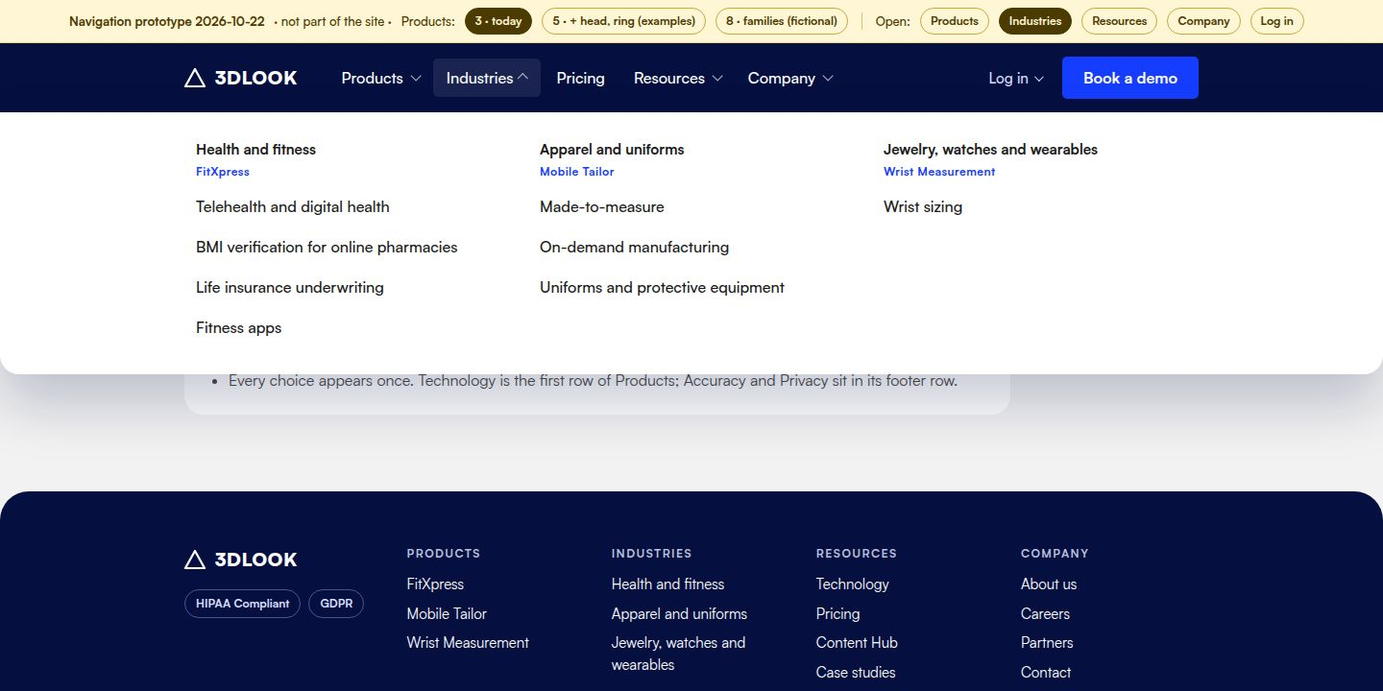
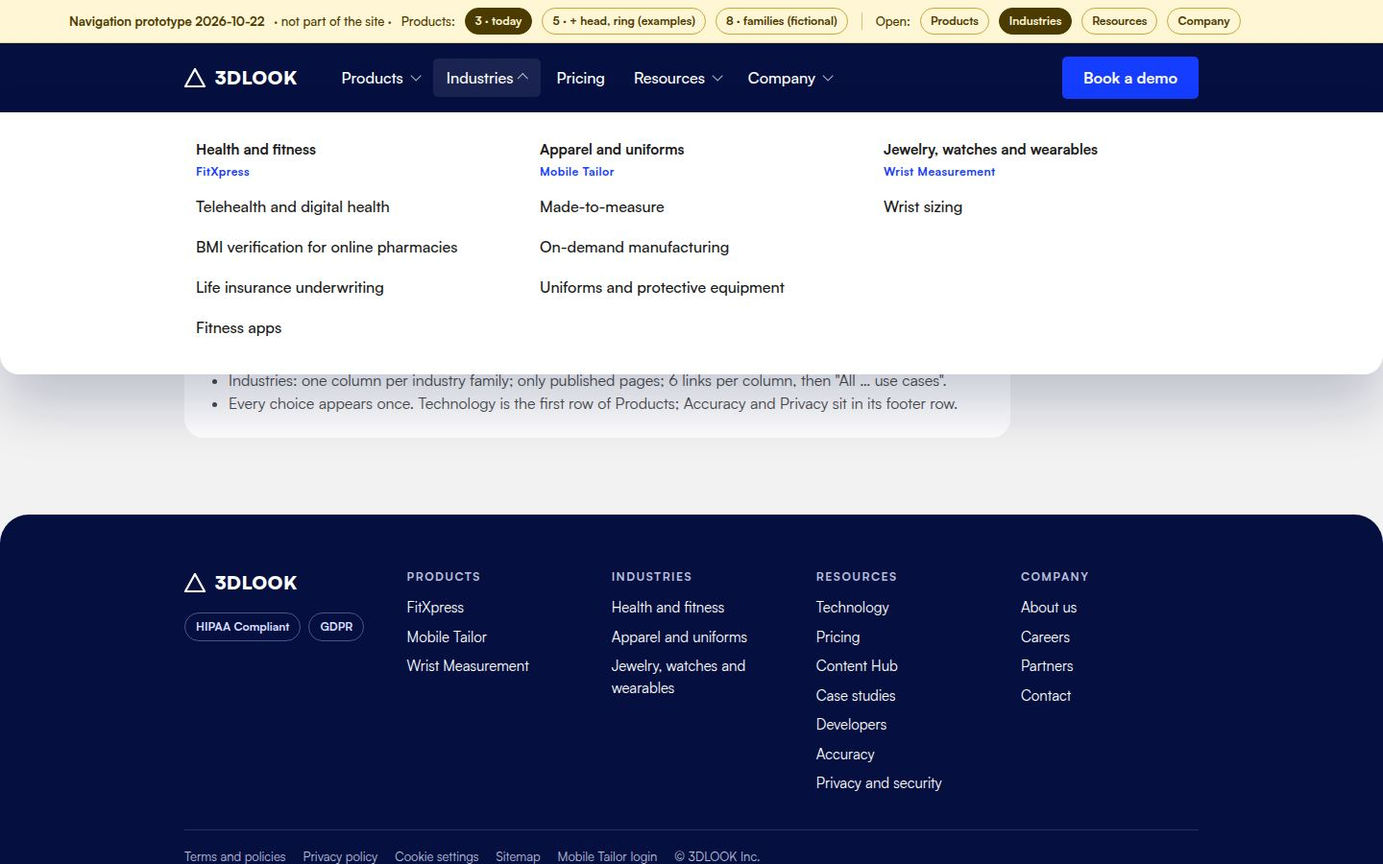
pages(site-architecture): no header login, eBooks category, head/ring in 2027 (2026-10-22)
Vadim's answers applied to the architecture, both prototypes and the Figma file:
- no Log in in the header: FitXpress has no public login, and GA4 shows zero
  clicks from the site to the Mobile Tailor app in 90 days; Mobile Tailor login
  moves to the footer and the /mobile-tailor/ page
- Resources > eBooks points to /content-hub/category/ebooks/ (three eBooks exist;
  the category lists one today)
- head and ring products are 2027 and still being explored: the hidden extra
  card no longer names them
- Satoshi is not in the 3Dlook inc org fonts (Figma agent cannot load it)

diff --git a/marketing_vb/workspace/pages/site-architecture/nav-prototype-2026-10-22.html b/marketing_vb/workspace/pages/site-architecture/nav-prototype-2026-10-22.html
@@ -46,9 +46,6 @@ a{color:inherit;text-decoration:none}
 .nav>li>button:hover,.nav>li>a:hover,.nav>li>button[aria-expanded="true"]{background:rgba(255,255,255,.09)}
 .nav>li>a[aria-current="page"]{box-shadow:inset 0 -2px 0 var(--blue-300)}
 .right{display:flex;align-items:center;gap:14px;position:relative}
-.login{font:500 15px/1 var(--font);color:var(--blue-100);background:none;border:0;cursor:pointer;display:inline-flex;gap:6px;align-items:center;padding:10px 8px;border-radius:var(--r-5)}
-.login::after{content:"";width:6px;height:6px;border-right:1.5px solid currentColor;border-bottom:1.5px solid currentColor;transform:rotate(45deg) translateY(-2px)}
-.login:hover,.login[aria-expanded="true"]{color:var(--white);background:rgba(255,255,255,.09)}
 .btn{display:inline-flex;align-items:center;font:700 16px/1 var(--font);padding:14px 22px;border-radius:var(--r-5);background:var(--blue);color:var(--white)}
 .btn:hover{background:var(--blue-600)}
 .menu-btn{display:none;margin-left:auto;font:700 15px/1 var(--font);color:var(--white);background:rgba(255,255,255,.1);border:0;border-radius:var(--r-5);padding:11px 14px;cursor:pointer;gap:8px;align-items:center}
@@ -81,8 +78,6 @@ a{color:inherit;text-decoration:none}
 .uc a.item .nm{font-weight:500}
 .more{display:inline-block;margin:6px 0 0 12px;font-size:14px;font-weight:700;color:var(--blue)}
 .small-panel{left:auto;width:auto;min-width:320px;border-radius:var(--r-20)}
-.login-panel{position:absolute;right:120px;top:60px;width:320px;background:var(--white);color:var(--ink);border-radius:var(--r-20);box-shadow:0 24px 50px rgba(5,15,64,.25);padding:12px;display:none}
-.login-panel.open{display:block}
 
 /* page under the header */
 .page{padding:48px 0 80px}
@@ -137,7 +132,6 @@ a{color:inherit;text-decoration:none}
   <button type="button" data-open="industries" aria-pressed="false">Industries</button>
   <button type="button" data-open="resources" aria-pressed="false">Resources</button>
   <button type="button" data-open="company" aria-pressed="false">Company</button>
-  <button type="button" data-open="login" aria-pressed="false">Log in</button>
 </div>
 
 <header class="hdr">
@@ -151,9 +145,7 @@ a{color:inherit;text-decoration:none}
       <li><button type="button" aria-expanded="false" aria-controls="p-company" data-menu="company">Company</button></li>
     </ul>
     <div class="right">
-      <button class="login" type="button" aria-expanded="false" aria-controls="p-login" data-menu="login">Log in</button>
       <a class="btn" href="/contact-us/">Book a demo</a>
-      <div class="login-panel" id="p-login" data-render="login"></div>
     </div>
     <button class="menu-btn" type="button" aria-expanded="false" aria-controls="mob">
       <svg width="18" height="18" viewBox="0 0 24 24" aria-hidden="true"><path d="M3 6h18M3 12h18M3 18h18" stroke="#fff" stroke-width="2" stroke-linecap="round"/></svg>Menu
@@ -166,7 +158,7 @@ a{color:inherit;text-decoration:none}
     <div class="grid" style="grid-template-columns:repeat(4,1fr)">
       <a class="item" href="/content-hub/"><span class="nm">Content Hub</span><span class="ds">Guides, comparisons and product updates</span></a>
       <a class="item" href="/case-studies/"><span class="nm">Case studies</span><span class="ds">How clients use 3DLOOK body scanning</span></a>
-      <a class="item" href="/ebook-the-next-big-leap-in-health/"><span class="nm">eBooks</span><span class="ds">Long-form guides for health programs</span></a>
+      <a class="item" href="/content-hub/category/ebooks/"><span class="nm">eBooks</span><span class="ds">Long-form guides on health and retail</span></a>
       <a class="item" href="/developers/"><span class="nm">Developers</span><span class="ds">API, SDKs and integration guides</span></a>
     </div>
   </div></div>
@@ -186,7 +178,7 @@ a{color:inherit;text-decoration:none}
   <div class="wrap">
     <div class="note">
       <h2>What this prototype shows</h2>
-      <p>Five top-level items for any number of products: Products, Industries, Pricing, Resources, Company. Log in and Book a demo sit on the right. Switch the product count above: the header itself never changes, only the inside of the Products and Industries panels.</p>
+      <p>Five top-level items for any number of products: Products, Industries, Pricing, Resources, Company. Book a demo sits on the right; the Mobile Tailor login lives in the footer (no header login: GA4 recorded zero clicks from the site to the app in 90 days, and FitXpress has no public login). Switch the product count above: the header itself never changes, only the inside of the Products and Industries panels.</p>
       <ul>
         <li>Up to 6 products: one card per product in a grid.</li>
         <li>From 7 products: columns by product family (Body · Hand and wrist · Head).</li>
@@ -207,7 +199,7 @@ a{color:inherit;text-decoration:none}
       <div><h4>Resources</h4><ul><li><a href="/technology/">Technology</a></li><li><a href="/pricing/">Pricing</a></li><li><a href="/content-hub/">Content Hub</a></li><li><a href="/case-studies/">Case studies</a></li><li><a href="/developers/">Developers</a></li><li><a href="/content-hub/mobile-body-scanning-accuracy/">Accuracy</a></li><li><a href="/content-hub/fitxpress-data-privacy-security-regulatory-faq/">Privacy and security</a></li></ul></div>
       <div><h4>Company</h4><ul><li><a href="/about-us/">About us</a></li><li><a href="/careers/">Careers</a></li><li><a href="/partners/">Partners</a></li><li><a href="/contact-us/">Contact</a></li></ul></div>
     </div>
-    <div class="legal"><a href="/terms-and-policies/">Terms and policies</a><a href="/privacy-policy/">Privacy policy</a><a href="#cookie-settings">Cookie settings</a><a href="/sitemap/">Sitemap</a><span>© 3DLOOK Inc.</span></div>
+    <div class="legal"><a href="/terms-and-policies/">Terms and policies</a><a href="/privacy-policy/">Privacy policy</a><a href="#cookie-settings">Cookie settings</a><a href="/sitemap/">Sitemap</a><span data-render="foot-logins"></span><span>© 3DLOOK Inc.</span></div>
   </div>
 </footer>
 
@@ -228,7 +220,7 @@ const ALL = [
      {name:"Employee wellness", url:"/fitxpress/for-wellness-programs/", status:"planned"},
      {name:"Occupational health", url:"/fitxpress/for-occupational-health/", status:"planned"},
      {name:"Clinical trials", url:"/fitxpress/for-clinical-trials/", status:"planned"}],
-   allUseCases:"/fitxpress/#use-cases", login:{name:"FitXpress Admin Panel", url:"#fitxpress-admin-url", desc:"Monitor and export scan results"}},
+   allUseCases:"/fitxpress/#use-cases"},
   {id:"mobile-tailor", name:"Mobile Tailor", family:"body", stage:3, status:"live", url:"/mobile-tailor/",
    label:"AI body measurements for apparel and uniforms",
    industry:"Apparel and uniforms",
@@ -290,25 +282,21 @@ function renderIndustries() {
     return `<div><div class="col-title"><b>${esc(name)}</b><span class="own">${owner}</span></div>${shown.map(u => `<a class="item" href="${u.url}"><span class="nm">${esc(u.name)}</span></a>`).join("")}${more}</div>`;
   }).join("") + `</div>`;
 }
-function renderLogin() {
-  return products().filter(p => p.login).map(p => `<a class="item" href="${p.login.url}"><span class="nm">${esc(p.login.name)}</span><span class="ds">${esc(p.login.desc)}</span></a>`).join("");
-}
 function renderMobile() {
   const ps = products();
   const prod = `<details><summary>Products</summary><a class="lnk" href="/technology/">How 3DLOOK body scanning works</a>${ps.map(p => `<a class="lnk" href="${p.url}">${esc(p.name)}<small>${esc(p.label)}</small></a>`).join("")}</details>`;
   const ind = `<details><summary>Industries</summary>${industries().map(([n, pp]) => `<div class="sub">${esc(n)}</div>` + pp.flatMap(p => live(p)).slice(0, 6).map(u => `<a class="lnk" href="${u.url}">${esc(u.name)}</a>`).join("")).join("")}</details>`;
   return prod + ind +
     `<a class="top" href="/pricing/">Pricing</a>` +
-    `<details><summary>Resources</summary><a class="lnk" href="/content-hub/">Content Hub</a><a class="lnk" href="/case-studies/">Case studies</a><a class="lnk" href="/ebook-the-next-big-leap-in-health/">eBooks</a><a class="lnk" href="/developers/">Developers</a></details>` +
+    `<details><summary>Resources</summary><a class="lnk" href="/content-hub/">Content Hub</a><a class="lnk" href="/case-studies/">Case studies</a><a class="lnk" href="/content-hub/category/ebooks/">eBooks</a><a class="lnk" href="/developers/">Developers</a></details>` +
     `<details><summary>Company</summary><a class="lnk" href="/about-us/">About us</a><a class="lnk" href="/careers/">Careers</a><a class="lnk" href="/partners/">Partners</a><a class="lnk" href="/contact-us/">Contact</a></details>` +
-    `<details><summary>Log in</summary>${ps.filter(p => p.login).map(p => `<a class="lnk" href="${p.login.url}">${esc(p.login.name)}</a>`).join("")}</details>` +
     `<div class="pin"><a class="btn" href="/contact-us/">Book a demo</a></div>`;
 }
 function render() {
   const R = (k, h) => document.querySelectorAll(`[data-render="${k}"]`).forEach(el => el.innerHTML = h);
   R("products", renderProducts());
   R("industries", renderIndustries());
-  R("login", renderLogin());
+  R("foot-logins", products().filter(p => p.login).map(p => `<a href="${p.login.url}">${esc(p.name)} login</a>`).join(""));
   R("mobile", renderMobile());
   R("foot-products", products().map(p => `<li><a href="${p.url}">${esc(p.name)}</a></li>`).join(""));
   R("foot-industries", industries().map(([n, ps]) => `<li><a href="${ps[0].url}">${esc(n)}</a></li>`).join(""));
@@ -327,7 +315,7 @@ triggers.forEach(t => {
   t.addEventListener("mouseenter", () => { timer = setTimeout(() => openMenu(t.dataset.menu), 300); });
   t.addEventListener("mouseleave", () => clearTimeout(timer));
 });
-document.addEventListener("click", e => { if (!e.target.closest(".panel,.login-panel,.proto")) openMenu(null); });
+document.addEventListener("click", e => { if (!e.target.closest(".panel,.proto")) openMenu(null); });
 document.addEventListener("keydown", e => { if (e.key === "Escape") openMenu(null); });
 document.querySelector(".hdr").addEventListener("mouseleave", () => openMenu(null));
 const mb = document.querySelector(".menu-btn");

diff --git a/marketing_vb/workspace/pages/homepage/page-2026-10-21.html b/marketing_vb/workspace/pages/homepage/page-2026-10-21.html
@@ -121,12 +121,9 @@ h3{font-size:clamp(22px,2vw,27px);font-weight:500}
 .nav>li>button[aria-expanded="true"]::after{transform:rotate(-135deg) translateY(-1px)}
 .nav>li>button:hover,.nav>li>a:hover,.nav>li>button[aria-expanded="true"]{background:rgba(255,255,255,.09)}
 .hdr-right{display:flex;gap:14px;align-items:center;position:relative}
-.login{font:500 15px/1 var(--font);color:var(--blue-100);background:none;border:0;cursor:pointer;display:inline-flex;gap:6px;align-items:center;padding:10px 8px;border-radius:var(--r-5)}
-.login::after{content:"";width:6px;height:6px;border-right:1.5px solid currentColor;border-bottom:1.5px solid currentColor;transform:rotate(45deg) translateY(-2px)}
-.login:hover,.login[aria-expanded="true"]{color:var(--white);background:rgba(255,255,255,.09)}
 .menu-btn{display:none;margin-left:auto;font:700 15px/1 var(--font);color:var(--white);background:rgba(255,255,255,.1);border:0;border-radius:var(--r-5);padding:11px 14px;cursor:pointer;gap:8px;align-items:center}
 .n-panel{position:absolute;left:0;right:0;top:72px;background:var(--white);color:var(--ink);box-shadow:0 30px 60px rgba(5,15,64,.22);display:none;border-radius:0 0 var(--r-20) var(--r-20)}
-.n-panel.open,.n-login.open{display:block}
+.n-panel.open{display:block}
 .n-panel>.wrap{padding-top:28px;padding-bottom:28px}
 .n-head{display:flex;justify-content:space-between;align-items:center;gap:20px;padding:16px 18px;border-radius:var(--r-15);background:var(--blue-50);margin-bottom:22px;text-decoration:none}
 .n-head b{display:block;font-size:17px}
@@ -147,7 +144,6 @@ h3{font-size:clamp(22px,2vw,27px);font-weight:500}
 .n-uc .n-item{padding:9px 12px}
 .n-uc .n-item .nm{font-weight:500}
 .n-more{display:inline-block;margin:6px 0 0 12px;font-size:14px;font-weight:700;color:var(--blue);text-decoration:none}
-.n-login{position:absolute;right:120px;top:60px;width:320px;background:var(--white);color:var(--ink);border-radius:var(--r-20);box-shadow:0 24px 50px rgba(5,15,64,.25);padding:12px;display:none}
 .badge{font-size:11px;font-weight:700;letter-spacing:.06em;text-transform:uppercase;border-radius:var(--r-pill);padding:4px 8px;background:var(--blue-50);color:var(--blue-700)}
 .badge.dev{background:var(--g100);color:var(--g700)}
 .badge.ex{background:#FFF0C2;color:#6B5200}
@@ -324,9 +320,7 @@ h3{font-size:clamp(22px,2vw,27px);font-weight:500}
       <li><button type="button" aria-expanded="false" aria-controls="p-company" data-menu="company">Company</button></li>
     </ul>
     <div class="hdr-right">
-      <button class="login" type="button" aria-expanded="false" aria-controls="p-login" data-menu="login">Log in</button>
       <a class="btn btn-blue" href="#demo" data-cta="header">Book a demo</a>
-      <div class="n-login" id="p-login" data-render="menu-login"></div>
     </div>
     <button class="menu-btn" type="button" aria-expanded="false" aria-controls="mnav">
       <svg width="18" height="18" viewBox="0 0 24 24" aria-hidden="true"><path d="M3 6h18M3 12h18M3 18h18" stroke="#fff" stroke-width="2" stroke-linecap="round"/></svg>Menu
@@ -337,7 +331,7 @@ h3{font-size:clamp(22px,2vw,27px);font-weight:500}
   <div class="n-panel" id="p-resources"><div class="wrap"><div class="n-grid" style="grid-template-columns:repeat(4,1fr)">
     <a class="n-item" href="/content-hub/"><span class="nm">Content Hub</span><span class="ds">Guides, comparisons and product updates</span></a>
     <a class="n-item" href="/case-studies/"><span class="nm">Case studies</span><span class="ds">How clients use 3DLOOK body scanning</span></a>
-    <a class="n-item" href="/ebook-the-next-big-leap-in-health/"><span class="nm">eBooks</span><span class="ds">Long-form guides for health programs</span></a>
+    <a class="n-item" href="/content-hub/category/ebooks/"><span class="nm">eBooks</span><span class="ds">Long-form guides on health and retail</span></a>
     <a class="n-item" href="/developers/"><span class="nm">Developers</span><span class="ds">API, SDKs and integration guides</span></a>
   </div></div></div>
   <div class="n-panel" id="p-company"><div class="wrap"><div class="n-grid" style="grid-template-columns:repeat(4,1fr)">
@@ -535,7 +529,7 @@ h3{font-size:clamp(22px,2vw,27px);font-weight:500}
       <div><h4>Resources</h4><ul><li><a href="/technology/">Technology</a></li><li><a href="/pricing/">Pricing</a></li><li><a href="/content-hub/">Content Hub</a></li><li><a href="/case-studies/">Case studies</a></li></ul></div>
       <div><h4>Company</h4><ul><li><a href="/about-us/">About us</a></li><li><a href="/partners/">Partners</a></li><li><a href="/careers/">Careers</a></li><li><a href="/contact-us/">Contact</a></li></ul></div>
     </div>
-    <div class="legal"><span>3DLOOK INC. is a company located outside of the European Union. In order to comply with Art. 27 EU GDPR, GDPR-Rep.eu has been nominated as our representative in the European Union.</span><span><a href="/terms-and-policies/">Legal</a> · <a href="/privacy-policy/">Privacy Policy</a> · <a href="#cookie-settings">Cookie settings</a></span></div>
+    <div class="legal"><span>3DLOOK INC. is a company located outside of the European Union. In order to comply with Art. 27 EU GDPR, GDPR-Rep.eu has been nominated as our representative in the European Union.</span><span><a href="/terms-and-policies/">Legal</a> · <a href="/privacy-policy/">Privacy Policy</a> · <a href="#cookie-settings">Cookie settings</a> · <span data-render="foot-logins"></span></span></div>
   </div>
 </footer>
 
@@ -546,7 +540,7 @@ h3{font-size:clamp(22px,2vw,27px);font-weight:500}
 const PRODUCTS = [
   {
     id: "fitxpress", name: "FitXpress", status: "live", featured: true, url: "/fitxpress/", family: "body",
-    allUseCases: "/fitxpress/#use-cases", login: {name: "FitXpress Admin Panel", url: "#fitxpress-admin-url", desc: "Monitor and export scan results"},
+    allUseCases: "/fitxpress/#use-cases",
     anchor: "Explore the FitXpress AI body scanner",
     label: "Body scanning API for health and fitness programs",
     value: "Body measurements, BMI and body composition estimates that remote health programs, insurers and fitness apps can act on.",
@@ -594,10 +588,10 @@ const PRODUCTS = [
     useCases: [{name: "Wrist sizing", url: "/wrist-measurement/", status: "live"}]
   },
   {
-    id: "other", name: "Other body parts", status: "in-development", url: "#demo",
+    id: "other", name: "Other body measurements", status: "in-development", url: "#demo",
     anchor: "Talk to the team",
-    label: "Measurement in development",
-    value: "Head and hand measurement are in development. If your product depends on another body measurement, tell us what you need.",
+    label: "Another body measurement",
+    value: "If your product depends on a body measurement that is not listed here, tell us what you need to measure.",
     returns: [], builtFor: [], industry: null, need: null, formOption: "Something else", segment: "Other", visual: "dots", useCases: []
   },
   /* fictional entries for the stress test only */
@@ -680,9 +674,8 @@ function renderMobile(ps) {
   return `<details><summary>Products</summary><a class="lnk" href="/technology/">How 3DLOOK body scanning works</a>${ps.map(p => `<a class="lnk" href="${p.url}">${esc(p.name)}<small>${esc(p.label)}</small></a>`).join("")}</details>` +
     `<details><summary>Industries</summary>${industries().map(([n, pp]) => `<div class="sub">${esc(n)}</div>` + pp.flatMap(liveUseCases).slice(0, 6).map(u => `<a class="lnk" href="${u.url}">${esc(u.name)}</a>`).join("")).join("")}</details>` +
     `<a class="top" href="/pricing/">Pricing</a>` +
-    `<details><summary>Resources</summary><a class="lnk" href="/content-hub/">Content Hub</a><a class="lnk" href="/case-studies/">Case studies</a><a class="lnk" href="/ebook-the-next-big-leap-in-health/">eBooks</a><a class="lnk" href="/developers/">Developers</a></details>` +
+    `<details><summary>Resources</summary><a class="lnk" href="/content-hub/">Content Hub</a><a class="lnk" href="/case-studies/">Case studies</a><a class="lnk" href="/content-hub/category/ebooks/">eBooks</a><a class="lnk" href="/developers/">Developers</a></details>` +
     `<details><summary>Company</summary><a class="lnk" href="/about-us/">About us</a><a class="lnk" href="/careers/">Careers</a><a class="lnk" href="/partners/">Partners</a><a class="lnk" href="/contact-us/">Contact</a></details>` +
-    `<details><summary>Log in</summary>${ps.filter(p => p.login).map(p => `<a class="lnk" href="${p.login.url}">${esc(p.login.name)}</a>`).join("")}</details>` +
     `<div class="pin"><a class="btn btn-blue" href="#demo">Book a demo</a></div>`;
 }
 
@@ -698,7 +691,7 @@ function render() {
      <ul>${prods.flatMap(liveUseCases).map(u => `<li><a href="${u.url}">${esc(u.name)}</a></li>`).join("")}</ul></div>`).join(""));
   R("menu-products", renderMenuProducts(ps));
   R("menu-industries", renderMenuIndustries());
-  R("menu-login", ps.filter(p => p.login).map(p => `<a class="n-item" href="${p.login.url}"><span class="nm">${esc(p.login.name)}</span><span class="ds">${esc(p.login.desc)}</span></a>`).join(""));
+  R("foot-logins", ps.filter(p => p.login).map(p => `<a href="${p.login.url}">${esc(p.login.name)} login</a>`).join(" · "));
   R("mnav", renderMobile(ps));
   R("foot-products", ps.filter(p => p.status !== "in-development").map(p => `<li><a href="${p.url}">${esc(p.name)}</a></li>`).join(""));
   R("foot-usecases", ps.flatMap(liveUseCases).slice(0, 8).map(u => `<li><a href="${u.url}">${esc(u.name)}</a></li>`).join(""));
@@ -725,7 +718,7 @@ triggers.forEach(t => {
   t.addEventListener("mouseenter", () => { timer = setTimeout(() => openMenu(t.dataset.menu), 300); });
   t.addEventListener("mouseleave", () => clearTimeout(timer));
 });
-document.addEventListener("click", e => { if (!e.target.closest(".n-panel,.n-login")) openMenu(null); });
+document.addEventListener("click", e => { if (!e.target.closest(".n-panel")) openMenu(null); });
 document.addEventListener("keydown", e => { if (e.key === "Escape") openMenu(null); });
 document.querySelector(".hdr").addEventListener("mouseleave", () => openMenu(null));
 const menuBtn = document.querySelector(".menu-btn");

diff --git a/marketing_vb/workspace/pages/site-architecture/architecture-2026-10-22.md b/marketing_vb/workspace/pages/site-architecture/architecture-2026-10-22.md
@@ -11,7 +11,7 @@ related: ../homepage/spec-2026-10-21.md (реєстр продуктів), .clau
 
 ## Коротко
 
-- **У шапці 5 пунктів, і їх стільки ж лишається при будь-якій кількості продуктів:** `Products · Industries · Pricing · Resources · Company`. Праворуч `Log in ▾` (вибір продукту) і одна кнопка `Book a demo`. Нові продукти змінюють лише вміст двох мега-меню.
+- **У шапці 5 пунктів, і їх стільки ж лишається при будь-якій кількості продуктів:** `Products · Industries · Pricing · Resources · Company`. Праворуч одна кнопка `Book a demo`. Входу в шапці немає (рішення 10-22): вхід у Mobile Tailor живе у футері й на сторінці продукту. Нові продукти змінюють лише вміст двох мега-меню.
 - **Два виміри, кожен пункт один раз.** Products відповідає на питання «що», Industries — «для кого». Сторінки use case показуються тільки в Industries, продукти тільки в Products.
 - **Меню будується з того самого реєстру продуктів, що й головна.** До 6 продуктів це сітка карток, з 7-го — колонки за сімействами (Body · Hand and wrist · Head). Прототип показує це перемикачем 3 / 5 / 8.
 - **URL не міняємо заради SEO.** Google визначає структуру сайту за посиланнями, а не за папками. Продукти лишаються в корені (`/fitxpress/`, `/mobile-tailor/`, `/wrist-measurement/`), use cases — `/{product}/for-{audience}/`. Переїжджає лише те, що вже вирішено з релізом `/fitxpress/`.
@@ -57,7 +57,7 @@ related: ../homepage/spec-2026-10-21.md (реєстр продуктів), .clau
 | Продукти + окреме меню галузей, коли продуктів 3+ | Stripe, Twilio, Veriff, Mitek, Datadog | Products + Industries |
 | Оглядовий пункт першим у меню продуктів | «Twilio Platform», Persona «Platform», Size Stream «Overview» | Technology першим рядком у Products |
 | Колонки сімейств і бейдж «New» для нових продуктів | Stripe, Veriff, Mitek, Twilio | Сімейства з 7-го продукту, бейдж New |
-| Вибір входу, коли застосунків кілька | Twilio («Or log in to access…»), Yoti («Business login») | `Log in ▾` із FitXpress Admin Panel і Mobile Tailor |
+| Вибір входу, коли застосунків кілька | Twilio («Or log in to access…»), Yoti («Business login») | Не беремо: публічний вхід є лише в Mobile Tailor, і з сайту ним не користуються (див. §4a) |
 | Одна головна CTA | усі | `Book a demo` |
 | Developers у шапці лише в API-first компаній з відкритим самообслуговуванням | Stripe, Prism | У нас доступ через демо і NDA, тож Developers іде в Resources |
 
@@ -73,7 +73,7 @@ related: ../homepage/spec-2026-10-21.md (реєстр продуктів), .clau
 4. **Назви — звичайні слова, ключ першим.** «Industries», а не «Solutions» (NN/g: розмиті ярлики не працюють). Пункти галузей названі аудиторією («Fitness apps», «Life insurance underwriting»).
 5. **Справжні посилання.** Усі пункти меню — `<a href>` у серверному HTML. Верхні пункти з підменю — `<button aria-expanded>`, ніколи `href="#"`.
 6. **URL — для людей і аналітики.** Google не рахує слеші і не виводить ієрархію з папок, тож існуючі адреси з трафіком не чіпаємо.
-7. **Одна CTA, вхід як утиліта.** `Book a demo` — кнопка; `Log in ▾` — текстове посилання з вибором продукту.
+7. **Одна CTA, вхід не в шапці.** `Book a demo` — кнопка. Вхід у кабінети — у футері і на сторінці продукту (§4a).
 
 ---
 
@@ -84,9 +84,8 @@ related: ../homepage/spec-2026-10-21.md (реєстр продуктів), .clau
 | **Products ▾** | мега-меню | Перший рядок: «How 3DLOOK body scanning works» → `/technology/`. Далі картка на кожен продукт: назва, опис в одному рядку, бейдж (New / Beta). Нижній рядок: Accuracy · Privacy and security · Compare all products (`/#products`) |
 | **Industries ▾** | мега-меню | Колонка на кожну галузь: заголовок, під ним продукт(и), до 6 опублікованих сторінок, далі «All … use cases →» на розділ use cases продукту |
 | **Pricing** | посилання | `/pricing/` (вкладки продуктів `?product=`, редизайн 10-14) |
-| **Resources ▾** | невелике меню | Content Hub · Case studies · eBooks · Developers |
+| **Resources ▾** | невелике меню | Content Hub · Case studies · eBooks (`/content-hub/category/ebooks/`) · Developers |
 | **Company ▾** | невелике меню | About us · Careers · Partners · Contact |
-| **Log in ▾** | утиліта | FitXpress Admin Panel · Mobile Tailor. Новий продукт з кабінетом — новий рядок |
 | **Book a demo** | кнопка | Відкриває форму (на головній — `Home | Demo`, на FX-лендингах — `FX | LP | Demo`) |
 
 **Чому так:**
@@ -96,14 +95,21 @@ related: ../homepage/spec-2026-10-21.md (реєстр продуктів), .clau
 
 **Поведінка:** відкриття кліком (клавіатура, тач) і при наведенні із затримкою 300 мс; Escape і клік поза меню закривають; поточний розділ підсвічено (`aria-current`); меню не перекриває фокус.
 
-Прототип: `nav-prototype-2026-10-22.html`. Скріншоти: `screenshot-products-3.jpeg`, `screenshot-industries-3.jpeg`, `screenshot-products-5.jpeg`, `screenshot-industries-5.jpeg`, `screenshot-products-8.jpeg`, `screenshot-login.jpeg`.
+Прототип: `nav-prototype-2026-10-22.html`. Скріншоти: `screenshot-products-3.jpeg`, `screenshot-industries-3.jpeg`, `screenshot-products-5.jpeg`, `screenshot-industries-5.jpeg`, `screenshot-products-8.jpeg`.
+
+### 4a. Вхід у кабінети (рішення 10-22)
+
+- **У шапці входу немає.** У FitXpress немає публічного входу в адмінку: доступ видається окремо деяким клієнтам (Вадим, 10-22). Отже, вибирати з одного пункту нічого.
+- **Mobile Tailor:** посилання «Mobile Tailor login» → `https://mtm.3dlook.me/` у нижньому рядку футера і на сторінці `/mobile-tailor/` (біля першого екрана, «Already a customer? Log in»).
+- **Чому так:** GA4 за 22.07–21.10 не записав жодного кліку з сайту на `mtm.3dlook.me`, хоча вихідні кліки на інші піддомени 3dlook.me записує. Клієнти Mobile Tailor заходять у кабінет напряму.
+- Якщо з'явиться продукт із публічним кабінетом, його вхід іде в той самий рядок футера (поле `login` у реєстрі).
 
 ---
 
 ## 5. Мобільна версія
 
 - Кнопка з підписом **«Menu»** (не голий гамбургер) відкриває панель на весь екран.
-- Те саме дерево акордеонами: Products · Industries · Pricing · Resources · Company · Log in.
+- Те саме дерево акордеонами: Products · Industries · Pricing · Resources · Company.
 - `Book a demo` закріплена внизу панелі.
 - Скріншот: `screenshot-390-menu.jpeg`.
 
@@ -118,7 +124,7 @@ related: ../homepage/spec-2026-10-21.md (реєстр продуктів), .clau
 | Industries | групи галузей → сторінки продуктів |
 | Resources | Technology · Pricing · Content Hub · Case studies · Developers · Accuracy · Privacy and security |
 | Company | About us · Careers · Partners · Contact |
-| Нижній рядок | Terms and policies · Privacy policy · Cookie settings · Sitemap · © 3DLOOK Inc. |
+| Нижній рядок | Terms and policies · Privacy policy · Cookie settings · Sitemap · Mobile Tailor login · © 3DLOOK Inc. |
 
 ---
 
@@ -185,7 +191,7 @@ related: ../homepage/spec-2026-10-21.md (реєстр продуктів), .clau
 | Шапка | 5 пунктів | 5 пунктів | 5 пунктів |
 | Products | 3 картки в ряд | сітка 3 + 2 | колонки сімейств: Body · Hand and wrist · Head |
 | Industries | 3 колонки | 4 колонки (нова галузь — нова колонка) | до 4 колонок; далі галузі групуються |
-| Log in | 2 рядки | + рядок, якщо в продукту є кабінет | так само |
+| Вхід | Mobile Tailor у футері | + посилання у футері, якщо в продукту є публічний кабінет | так само |
 | URL | `/{product}/` | `/{product}/` | `/{product}/` + `/products/` як каталог |
 | Футер | з реєстру | з реєстру | з реєстру |
 
@@ -213,8 +219,8 @@ related: ../homepage/spec-2026-10-21.md (реєстр продуктів), .clau
 |---|---|---|
 | A-1 | Назва другого пункту: «Industries» чи «Use cases» (як зараз) | «Industries»: так підписують Styku і Size Stream; «Use cases» — внутрішній термін |
 | A-2 | Прибрати Technology з верхнього рівня | Так, перший рядок Products + футер; перевірити GA4 через місяць |
-| A-3 | Адреса входу у FitXpress Admin Panel | Потрібна від продукту |
+| A-3 | ~~Адреса входу у FitXpress Admin Panel~~ | **Закрито 10-22:** публічного входу немає, вхід прибрано з шапки (§4a) |
 | A-4 | Адреса BMI-сторінки: `landing-map.md` (09-29) каже `/fitxpress/bmi-verification/`, `site-inventory.md` — `/fitxpress/for-online-pharmacies/` | Взяти `landing-map` (новіше, і за твоїм рішенням це сторінка функції, а не use case); виправити `site-inventory.md` |
-| A-5 | eBooks у Resources: зараз живий один eBook | Лишити пункт, якщо в Q4 вийде другий; інакше прибрати до появи |
-| A-6 | Head і ring у меню | Лише після «так» від Sales і PM (як O-2 головної) |
+| A-5 | eBooks у Resources | **Закрито 10-22:** eBooks три («The Next Big Leap in Health» — сторінка, «The Digital Health Revolution» і «The AI Advantage» — пости). Пункт меню веде на `/content-hub/category/ebooks/`. Зараз категорія показує лише «The Digital Health Revolution»: Асель додає в неї «The AI Advantage» і картку-посилання на «The Next Big Leap in Health» |
+| A-6 | Head і ring у меню | **Закрито 10-22:** продукти з'являться у 2027, продуктова команда лише вивчає питання. До запуску на сайті їх не називаємо; у прототипах вони лишаються тільки як приклади для перевірки сітки |
 | A-7 | Шапку прототипу головної (6 пунктів із Technology) привести до цієї схеми | Після твого апруву, разом з оновленням кадру у Figma |

diff --git a/marketing_vb/workspace/pages/homepage/log.md b/marketing_vb/workspace/pages/homepage/log.md
@@ -28,3 +28,10 @@ Vadim approved the site-architecture rules («ок», then «все роби»):
 - **Figma file 6qdzFiKR1VWXYrD4zciVyK rebuilt.** Page «Homepage v1 + navigation (2026-10-22)»: `12:2` desktop (start of flow «Desktop: homepage and menus»), `14:2`–`18:2` menu-open states (Products, Industries, Resources, Company, Log in), `19:2` mobile 390 (start of flow «Mobile: homepage and menu»), `20:2` mobile menu, `13:2` stress test. 38 click interactions: header buttons switch states with Smart Animate 0.25 s, the active button or a click elsewhere closes, «See all products» scrolls to the products block, Menu slides the mobile menu in and out. Old frames `2:2`, `3:2` deleted.
 - **Gotchas:** overlay position is read-only in the Plugin API (overlays would open centred), so menus are separate state frames; html_to_figma ignores z-index and draws later DOM siblings on top, so in each state frame the hero was set to absolute and sent behind the header; mobile frames need the media queries unwrapped and `clamp(…vw…)` resolved before import, because the importer renders at desktop width.
 - **Hero motion:** page «Hero motion (2026-10-22)», frame `21:2`, 3.2 s timeline (TextStagger by word on the H1, scan line `26:111` sweeping the phone screen, keypoints, results card, rows and tiles staggered). Exported and checked frame by frame: `hero-motion-2026-10-22.mp4`. Timing table for the developer: spec §13.
+
+## 2026-10-22 · Vadim's answers on login, eBooks, head/ring, Satoshi
+
+- **No header login.** FitXpress has no public admin login (credentials are given to some clients separately). GA4 (07-22…10-21): zero clicks from the site to `mtm.3dlook.me`. Header «Log in ▾» removed from both prototypes and from the Figma file (buttons in 6 frames, the Log in state frame `18:2`, the mobile-menu row); «Mobile Tailor login» added to the footer legal row (desktop, stress, mobile frames). Registry `login` = public cabinets only.
+- **eBooks:** three on the site; the Resources item points to `/content-hub/category/ebooks/`, which today lists only «The Digital Health Revolution» (Asel to categorise the rest, architecture A-5).
+- **Head and ring:** 2027, the product team is still exploring; the hidden extra card no longer names them («Other body measurements»).
+- **Satoshi:** not available to the Figma agent (0 of 1,938 font families; `loadFontAsync` fails), while the old website file uses it on ~2,100 text layers, so it is installed locally by designers, not uploaded to the 3Dlook inc org fonts. An org admin must upload it; then the import can be switched to Satoshi in one script.

diff --git a/marketing_vb/workspace/pages/homepage/page-2026-10-21.md b/marketing_vb/workspace/pages/homepage/page-2026-10-21.md
@@ -90,11 +90,11 @@ Wrist measurement from two smartphone photos, matched to the size chart a brand 
 
 [Explore wrist measurement](/wrist-measurement/)
 
-<!-- optional card, registry status=in-development, hidden until O-2 is approved -->
-### Other body parts
-**Measurement in development**
+<!-- optional card, registry status=in-development, hidden. Head and ring products: not before 2027, the product team is still exploring them (Vadim, 2026-10-22); never named on the site before launch -->
+### Other body measurements
+**Another body measurement**
 
-Head and hand measurement are in development. If your product depends on another body measurement, tell us what you need.
+If your product depends on a body measurement that is not listed here, tell us what you need to measure.
 
 [Talk to the team](#demo)
 

diff --git a/marketing_vb/workspace/pages/site-architecture/log.md b/marketing_vb/workspace/pages/site-architecture/log.md
@@ -15,3 +15,7 @@ Start here: `architecture-2026-10-22.md` (Ukrainian), then `nav-prototype-2026-1
 **Checks:** prototype screenshots at 1440 (Products and Industries at 3 / 5 / 8 products, Log in) and 390 (mobile menu); no horizontal scroll at 390.
 
 **Open:** A-1…A-7 in the architecture file. Nothing committed or sent.
+
+## 2026-10-22 · approved, then adjusted
+
+Vadim «ок» → A-1, A-2, A-4, A-7 closed. Later the same day: no header login (A-3: FitXpress has no public login; GA4 shows zero site clicks to the Mobile Tailor app), eBooks → `/content-hub/category/ebooks/` (A-5), head and ring not before 2027 (A-6). Prototype, screenshots and Figma updated; `screenshot-login.jpeg` removed.
